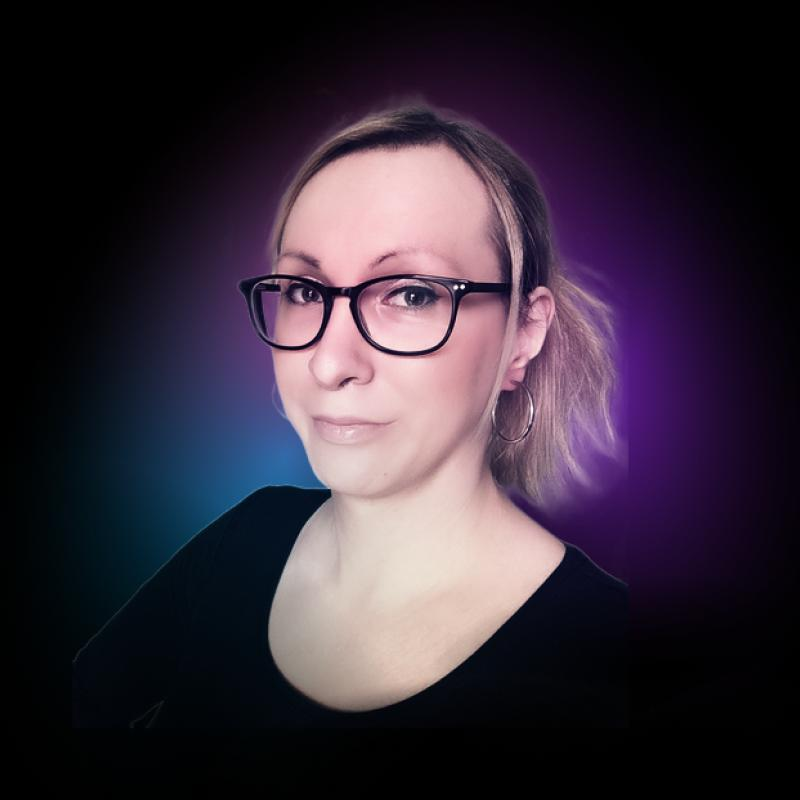
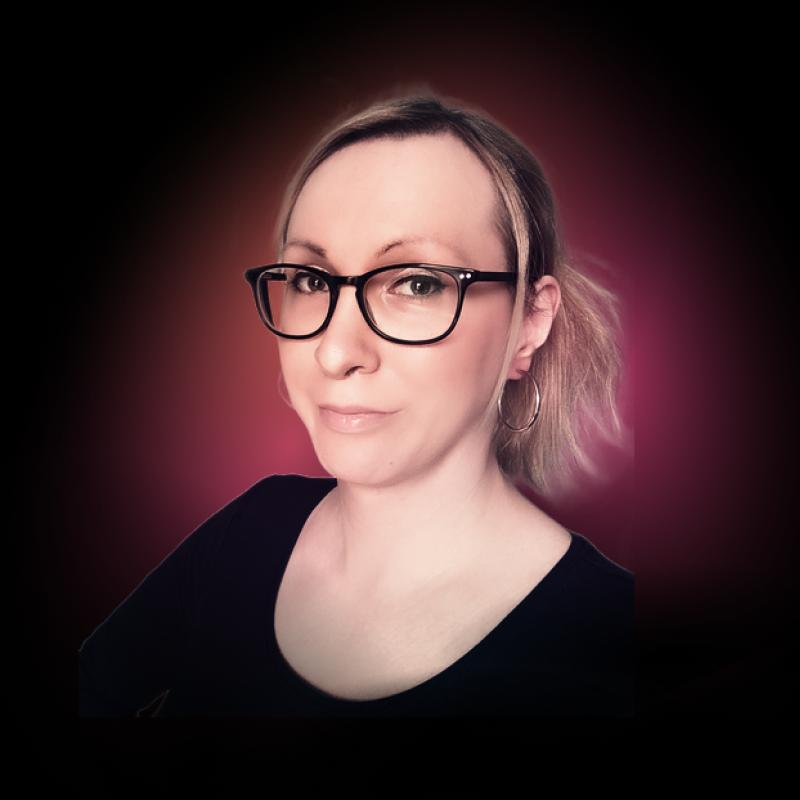
css: change theme colors

diff --git a/src/App.scss b/src/App.scss
@@ -9,8 +9,8 @@
   --textColDisabled: rgba(255, 255, 255, 0.4);
   --mutedText: rgba(255, 255, 255, 0.7);
   --mutedBlack: rgba(0, 0, 0, 0.1);
-  --primaryCol: #29bfda;
-  --secondaryCol: #b04bbf;
+  --primaryCol: #f97565;
+  --secondaryCol: #eb4985;
   --disabledCol: #43687c;
   --gradientCol1: #1c709d;
   --gradientCol2: #761d7d;
@@ -128,10 +128,10 @@ button,
     var(--buttonGradientCol1),
     var(--buttonGradientCol2),
     var(--gradientCol1),
-    var(--primaryCol)
+    var(--gradientCol2)
   );
   background-size: 300% 100%;
-  border-radius: var(--s1);
+  border-radius: 999px;
   border: none;
   color: var(--textCol);
   cursor: pointer;
@@ -144,6 +144,7 @@ button,
   transition: all var(--transitionSpeed) var(--transitionTiming);
 
   &:hover {
+    color: var(--textCol);
     background-position: 100% 0%;
   }
 

diff --git a/src/common/NavBar/NavBar.jsx b/src/common/NavBar/NavBar.jsx
@@ -7,9 +7,10 @@ import './NavBar.scss';
 const NavBar = () => (
   <nav className="navbar">
     <h1 className="logo">
-      <span className="gradient">kimkwanka</span>
+      kim
+      <span className="gradient">kwanka</span>
     </h1>
-    <ul>
+    <ul className="navbar__nav-items">
       <li>
         <NavLink
           className="navbar__link"
@@ -36,7 +37,7 @@ const NavBar = () => (
           Work
         </NavLink>
         <NavLink
-          className="navbar__link"
+          className="navbar__link button"
           activeClassName="navbar__link--active"
           to="/contact"
         >

diff --git a/src/views/HomeView/HomeView.jsx b/src/views/HomeView/HomeView.jsx
@@ -19,7 +19,7 @@ const HomeView = () => {
             Lorem ipsum dolor sit amet, consectetur adipiscing elit. Quam
             sagittis viverra dolor nulla integer rhoncus, et mollis adipiscing.
           </p>
-          <button type="button" className="hero__button">HOW I WORK</button>
+          <button className="hero__button" type="button">Recent Work</button>
         </div>
         <img src={portraitImg} alt="" className="hero__img" />
       </section>

diff --git a/src/views/HomeView/HomeView.scss b/src/views/HomeView/HomeView.scss
@@ -17,6 +17,7 @@
 .hero__content {
   display: flex;
   flex-direction: column;
+  align-items: flex-start;
   justify-content: space-around;
   width: 100%;
 }
@@ -28,6 +29,10 @@
 
 .hero__span {
   display: inline-block;
+}
+
+.hero__button {
+  padding: var(--s2) var(--s3);
 }
 
 .hero__img {

diff --git a/src/common/NavBar/NavBar.scss b/src/common/NavBar/NavBar.scss
@@ -21,7 +21,6 @@
 .navbar__link {
   color: var(--linkCol);
   font-size: 20px;
-  font-weight: bold;
   margin-left: var(--s3);
   text-decoration: none;
 
